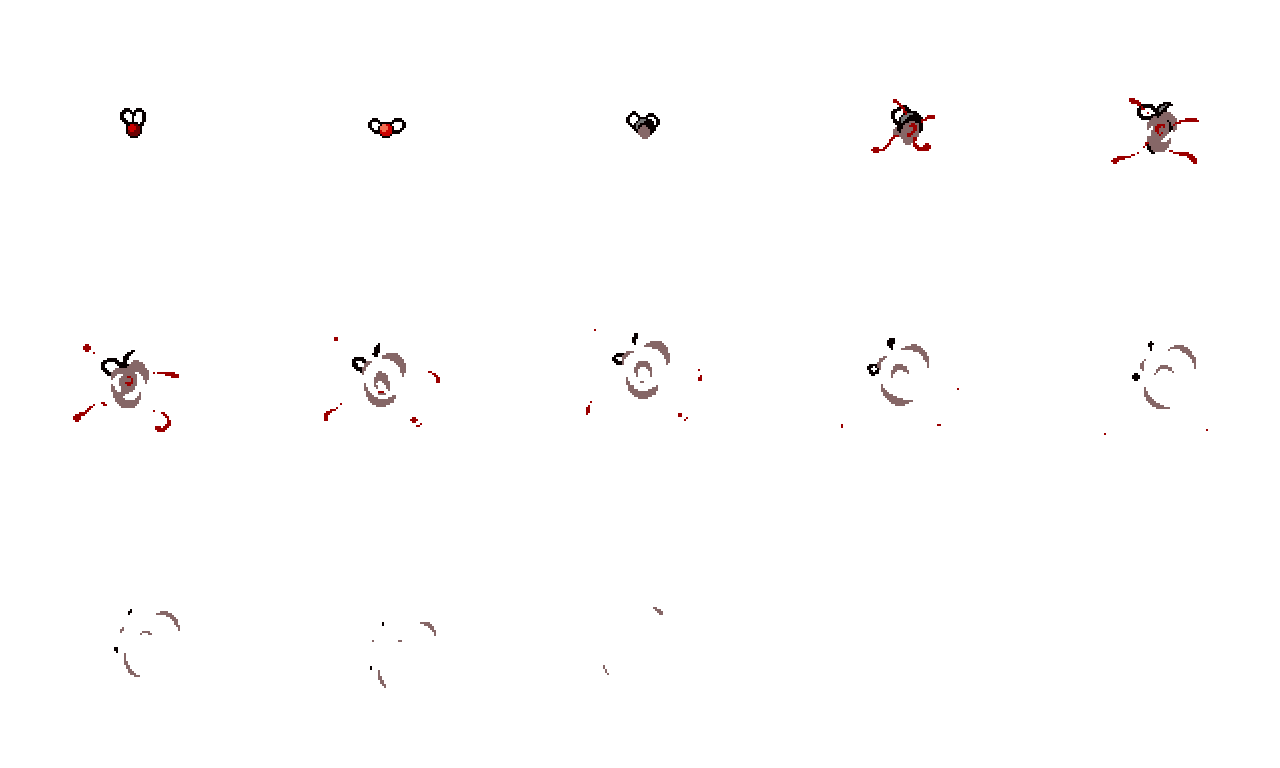
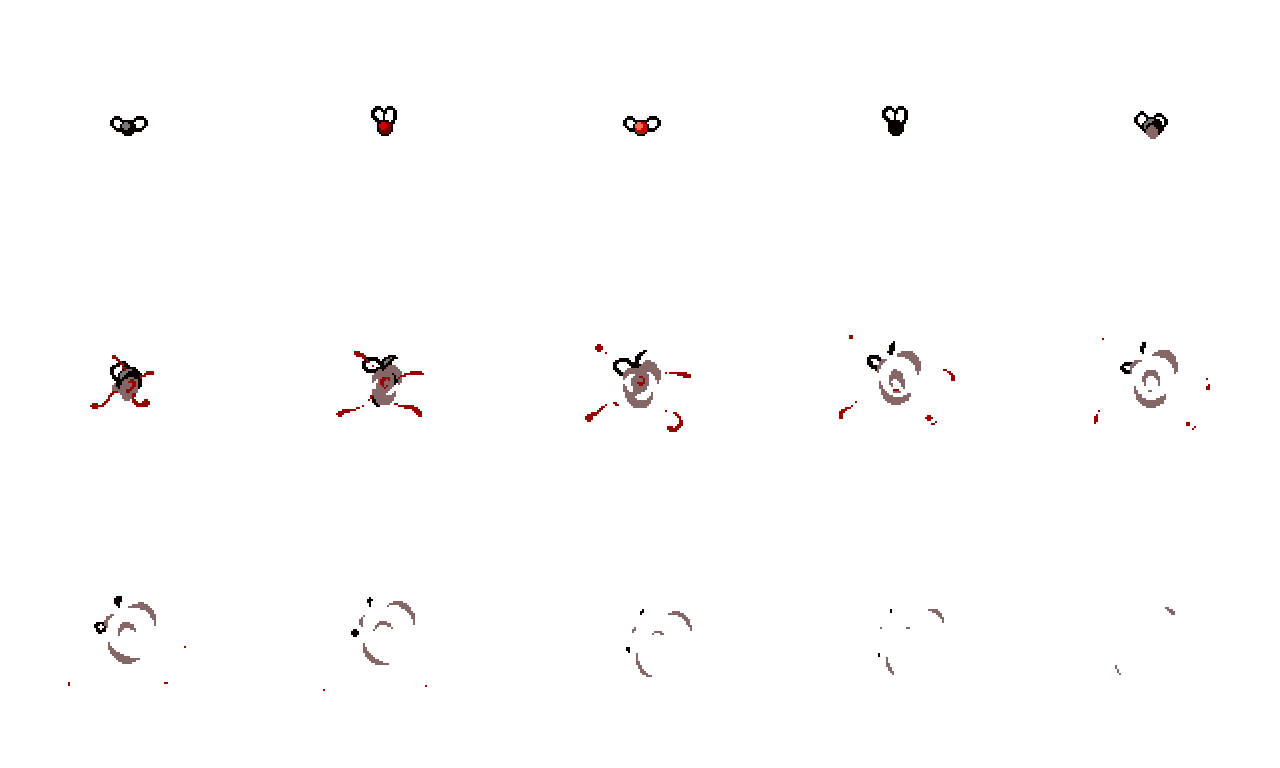
[Feature] Fly 애니메이션 추가

diff --git a/The Binding of Isaac(Rebirth)/Fly.cpp b/The Binding of Isaac(Rebirth)/Fly.cpp
@@ -13,19 +13,21 @@ void AFly::BeginPlay()
 	AActor::BeginPlay();
 
 	SetActorLocation({ 800,270 });
-	{
-		UImageRenderer* FlyRenderer = CreateImageRenderer(IsaacRenderOrder::Monster);
-		FlyRenderer->SetImage("Fly.png");
-		FlyRenderer->SetTransform({ FVector::Zero, RendererSize });
-		FlyRenderer->CreateAnimation("Idle", "Fly.png", 0, 1, 0.1f, true);
-		FlyRenderer->CreateAnimation("Dead", "Fly.png", 2, 12, 0.1f, true);
-	}
 
-	{
-		FlyCollision = CreateCollision(IsaacCollisionOrder::Monster);
-		FlyCollision->SetScale({ 50, 50 });
-		FlyCollision->SetColType(ECollisionType::CirCle);
-	}
+	UImageRenderer* FlyRenderer = CreateImageRenderer(IsaacRenderOrder::Monster);
+	FlyRenderer->SetImage("Fly.png");
+	FlyRenderer->SetTransform({ FVector::Zero, RendererSize });
+	FlyRenderer->CreateAnimation("Move", "Fly.png", 0, 3, 0.05f, true);
+	FlyRenderer->CreateAnimation("Dead", "Fly.png", 4, 14, 0.05f, true);
+
+
+
+	FlyCollision = CreateCollision(IsaacCollisionOrder::Monster);
+	FlyCollision->SetScale({ 50, 50 });
+	FlyCollision->SetColType(ECollisionType::CirCle);
+
+
+	FlyRenderer->ChangeAnimation("Move");
 }
 
 void AFly::Tick(float _DeltaTime)

diff --git a/The Binding of Isaac(Rebirth)/Monster.h b/The Binding of Isaac(Rebirth)/Monster.h
@@ -20,7 +20,7 @@ protected:
 	void BeginPlay() override;
 	void Tick(float _DeltaTime) override;
 
-	//void DirCheck();
+	//void MonsterDirCheck();
 	//std::string GetAnimationName(std::string _Name);
 
 	//void StateChange(EMonsterState _State);
